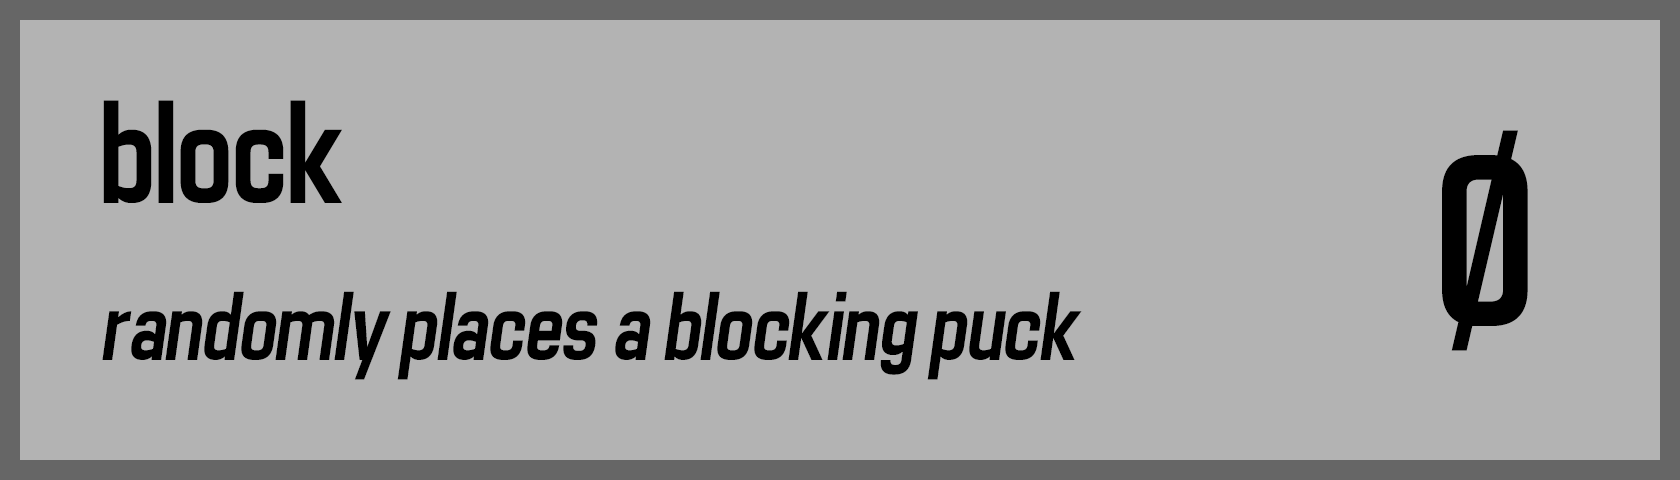
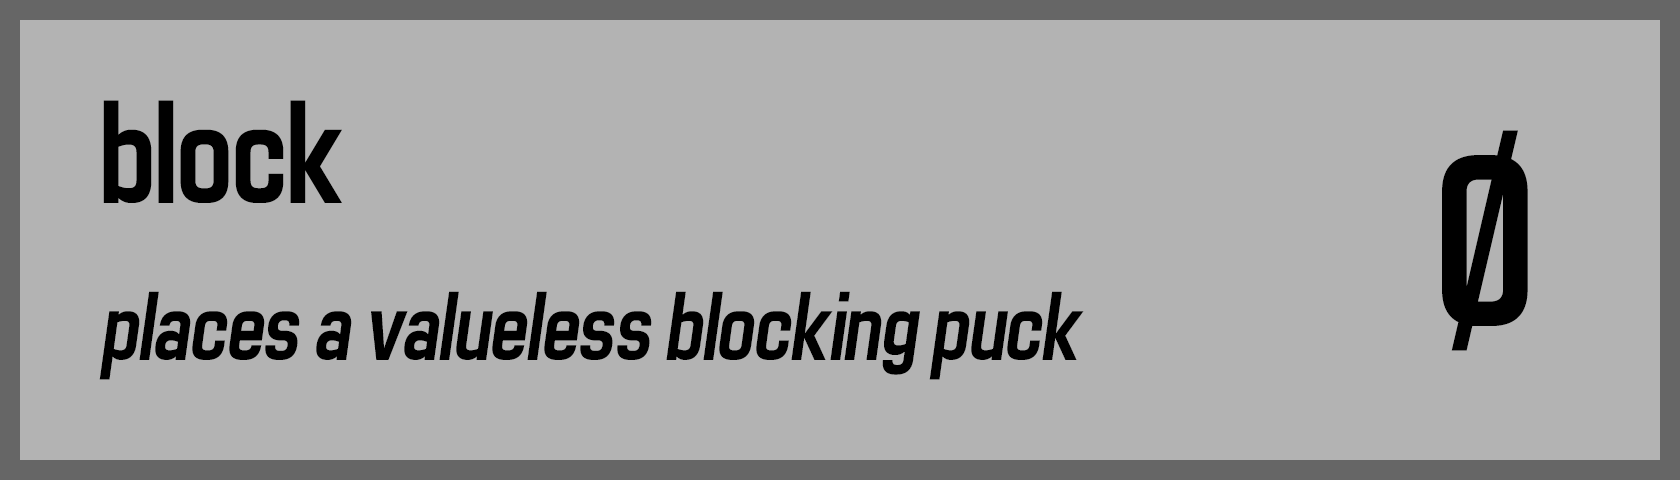
blocking puck is now valueless, plus one only applies to scoring zones greater than zero, pucks can now be clicked to see score/powerup

Changed region(s): [[0.0619, 0.5938, 0.65, 0.7812]]

diff --git a/Assets/Scripts/Puck/PuckScript.cs b/Assets/Scripts/Puck/PuckScript.cs
@@ -185,7 +185,7 @@ public class PuckScript : NetworkBehaviour, IPointerClickHandler
     public bool IsSafe() { return safe; }
     public bool IsPastSafeLine() { return pastSafeLine; }
     public bool IsPlayersPuck() { return playersPuck; }
-    public int ComputeValue() { return (puckBaseValue * zoneMultiplier) + puckBonusValue; }
+    public int ComputeValue() { return (puckBaseValue * zoneMultiplier) + (zoneMultiplier > 0 ? puckBonusValue : 0); }
     public int GetZoneMultiplier() { return zoneMultiplier; }
     public void SetZoneMultiplier(int ZM) { zoneMultiplier = ZM; }
 
@@ -218,9 +218,10 @@ public class PuckScript : NetworkBehaviour, IPointerClickHandler
                         Destroy(child.gameObject);
                     }
                 }
+                zoneMultiplier = enteredZoneMultiplier;
                 // show floating text
                 var floatingText = Instantiate(floatingTextPrefab, transform.position, Quaternion.identity, transform);
-                floatingText.GetComponent<TMP_Text>().text = enteredZoneMultiplier.ToString();
+                floatingText.GetComponent<TMP_Text>().text = ComputeValue().ToString();
             }
             // if puck moves into the off zone, play minus sfx
             else if (enteredZoneMultiplier < zoneMultiplier && !IsStopped())
@@ -235,9 +236,8 @@ public class PuckScript : NetworkBehaviour, IPointerClickHandler
                     minusCPUSFX.volume = SFXvolume;
                     minusCPUSFX.Play();
                 }
+                zoneMultiplier = enteredZoneMultiplier;
             }
-            
-            zoneMultiplier = enteredZoneMultiplier;
         }
     }
 
@@ -364,6 +364,9 @@ public class PuckScript : NetworkBehaviour, IPointerClickHandler
 
     public void OnPointerClick(PointerEventData eventData)
     {
+        // show puck score when clicked
+        var floatingText = Instantiate(floatingTextPrefab, transform.position, Quaternion.identity, transform);
+        floatingText.GetComponent<TMP_Text>().text = ComputeValue().ToString();
         // if powerupText has been set, show it
         if (powerupText != null)
         {

diff --git a/Assets/Scripts/Gameplay/LogicScript.cs b/Assets/Scripts/Gameplay/LogicScript.cs
@@ -137,7 +137,11 @@ public class LogicScript : MonoBehaviour
             // now player may shoot
             if ((Input.GetMouseButtonDown(0)) && gameIsRunning && (player.isShooting || isLocal) && powerupsMenu.activeInHierarchy == false)
             {
-                PlayerShootingHelper();
+                // make sure click is on the bottom half of the screen
+                if (Input.mousePosition.y < Screen.height / 2)
+                {
+                    PlayerShootingHelper();
+                }
             }
 
             // start CPU's turn, do this then start shooting
@@ -476,9 +480,12 @@ public class LogicScript : MonoBehaviour
     public void BlockPowerup()
     {
         int swap = activeCompetitor.isPlayer ? 1 : -1;
-        GameObject blockPuckObject = Instantiate(puckPrefab, new Vector3(Random.Range(2f * swap, 4f * swap), Random.Range(2f, 4f), 0.0f), Quaternion.identity);
+        GameObject blockPuckObject = Instantiate(puckPrefab, new Vector3(Random.Range(2f * swap, 4f * swap), Random.Range(2f, 4f), -1.0f), Quaternion.identity);
         PuckScript blockPuckScript = blockPuckObject.GetComponent<PuckScript>();
         blockPuckScript.InitPuck(activeCompetitor.isPlayer, activeCompetitor.puckSpriteID);
+        blockPuckScript.SetPuckBaseValue(0);
+        blockPuckScript.SetPowerupText("valueless");
+        blockPuckScript.CreatePowerupFloatingText();
         activeCompetitor.activePuckScript.SetPowerupText("block");
         activeCompetitor.activePuckScript.CreatePowerupFloatingText();
     }

diff --git a/Assets/Scripts/Gameplay/PuckManager.cs b/Assets/Scripts/Gameplay/PuckManager.cs
@@ -19,7 +19,7 @@ public class PuckManager : MonoBehaviour
     public void CreatePuck(Competitor competitor)
     {
         float xpos = (competitor.isPlayer ? -3.6f : 3.6f);
-        competitor.activePuckObject = Instantiate(puckPrefab, new Vector3(xpos, -10.0f, 0.0f), Quaternion.identity);
+        competitor.activePuckObject = Instantiate(puckPrefab, new Vector3(xpos, -10.0f, -1.0f), Quaternion.identity);
         competitor.activePuckScript = competitor.activePuckObject.GetComponent<PuckScript>();
         competitor.activePuckScript.InitPuck(competitor.isPlayer, competitor.puckSpriteID);
     }
